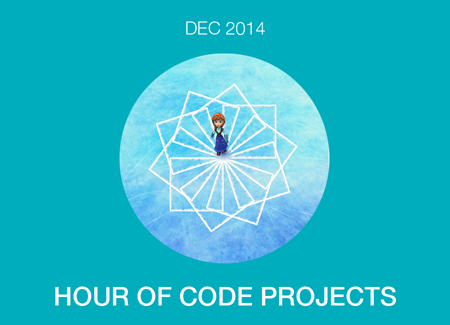
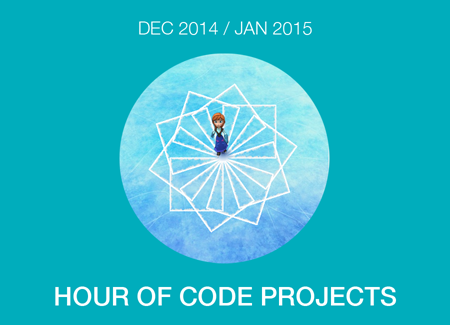
Add January project (pen drawing + custom blocks)
Add January project (pen drawing + custom blocks)

Changed region(s): [[0.3111, 0.0615, 0.6844, 0.1231]]

diff --git a/coderdojo-indigo/presentations/prj_draw_code_blocks/index.html b/coderdojo-indigo/presentations/prj_draw_code_blocks/index.html
@@ -1,0 +1,216 @@
+<!DOCTYPE html>
+<!--[if lt IE 7]> <html class="no-js ie6" lang="en"> <![endif]-->
+<!--[if IE 7]>    <html class="no-js ie7" lang="en"> <![endif]-->
+<!--[if IE 8]>    <html class="no-js ie8" lang="en"> <![endif]-->
+<!--[if gt IE 8]><!-->  <html class="no-js" lang="en"> <!--<![endif]-->
+<head>
+  <meta charset="utf-8">
+  <meta http-equiv="X-UA-Compatible" content="IE=edge,chrome=1">
+
+  <title>CoderDojo Indigo - Pen Drawing and Code Block Functions</title>
+
+  <meta name="description" content="A jQuery library for modern HTML presentations">
+  <meta name="author" content="Caleb Troughton">
+  <meta name="viewport" content="width=1024, user-scalable=no">
+
+  <!-- Core and extension CSS files -->
+  <link rel="stylesheet" media="screen" href="../core/deck.core.css">
+  <link rel="stylesheet" media="screen" href="../extensions/goto/deck.goto.css">
+  <link rel="stylesheet" media="screen" href="../extensions/menu/deck.menu.css">
+  <link rel="stylesheet" media="screen" href="../extensions/navigation/deck.navigation.css">
+  <link rel="stylesheet" media="screen" href="../extensions/status/deck.status.css">
+  <link rel="stylesheet" media="screen" href="../extensions/scale/deck.scale.css">
+
+  <!-- Style theme. More available in /themes/style/ or create your own. -->
+  <link rel="stylesheet" media="screen" href="../themes/style/swiss.css">
+
+  <!-- Transition theme. More available in /themes/transition/ or create your own. -->
+  <link rel="stylesheet" media="screen" href="../themes/transition/horizontal-slide.css">
+
+  <!-- Basic black and white print styles -->
+  <link rel="stylesheet" media="print" href="../core/print.css">
+
+  <script src="../modernizr.custom.js"></script>
+</head>
+
+<body>
+  <div class="deck-container">
+
+    <!-- Begin slides -->
+
+    <section class="slide" id="how-to-overview">
+      <h2>Pen Drawing + Custom Code Block Functions</h2>
+      <ol>
+        <li>
+          <p>Use Pen functions to draw square and circle shapes</p>
+        </li>
+        <li>
+          <p>Create re-usable code "functions" by using custom Code Blocks</p>
+        </li>
+        <li>
+          <p>Use the custom Code Blocks to make patterns and illustrations</p>
+        </li>
+      </ol>
+    </section>
+
+    <section class="slide" id="scratch-signin">
+      <h2>Sign in at Scratch</h2>
+      <p>Go To: <strong><a href="http://scratch.mit.edu/" target="_blank">http://scratch.mit.edu/</a></strong></p>
+      <img src="../overview/images/scratch_signin.jpg" alt="scratch-signin">
+    </section>
+
+    <section class="slide" id="coder-dojo-indigo">
+      <h2>Create new Project</h2>
+      <p>From the Scratch menu, click "Create" to start <strong>a new project</strong></p>
+      <img src="images/01_create_project.png" alt="CoderDojo Indigo">
+    </section>
+
+    <section class="slide" id="see-inside">
+      <h2>Create a Dot costume on the default Sprite</h2>
+      <p>Click new costume paint icon and draw a dot. Delete the 2 cat costumes. (Note: you can hide the dot for drawing, but we'll leave it on to view drawings in progress and start points.)</p>
+      <img src="images/02_dot_sprite.png" alt="see-inside">
+    </section>
+
+    <section class="slide" id="remix">
+      <h2>Draw a Square</h2>
+      <p>Pen functions: "clear" erases all lines, "pen down" to draw, "pen up" to not draw. Draw a square: repeat 4 times -> draw line with distance and direction.</p>
+      <img src="images/03_draw_square.png" alt="remix">
+    </section>
+
+    <section class="slide" id="rename">
+      <h2>Specify Pen color at any time</h2>
+      <p>Add random Pen color for fun and so we can see multiple squares.</p>
+      <img src="images/04_draw_square_color.png" alt="rename">
+    </section>
+
+
+    <section class="slide" id="music-loop">
+      <h2>Multiple Squares by duplicating code</h2>
+      <p>Draw 2 squares by duplicating the code and providing a new start position; Notice the connnecting line.</p>
+      <img src="images/05_two_squares.png" alt="music-loop">
+    </section>
+
+    <section class="slide" id="santa-move">
+      <h2>Pen up block in action</h2>
+      <p>By adding a "pen up" block before the second square is drawn, there won't be a connecting line.</p>
+      <img src="images/06_two_squares_penup.png" alt="santa-move">
+    </section>
+
+    <section class="slide" id="background-scroll0">
+      <h2>Using a nested repeat loop</h2>
+      <p>A more effecient way, of course, is a nested repeat Loop....</p>
+      <img src="images/07_two_squares_nested_loop.png" alt="background-scroll0">
+    </section>
+
+    <section class="slide" id="background-scroll1">
+      <h2>Introducing custom Code Blocks</h2>
+      <p>An even better way is to create custom function Code Blocks - Click on "More Blocks" and select "Make a Block" to create one.</p>
+       <img src="images/08_code_blocks.png" alt="background-scroll1">
+     </section>
+
+     <section class="slide" id="background-scroll2">
+      <h2>Create Square code block</h2>
+      <p>Name your custom Code Block "Create Square" and add a "number input" variable called "size".</p>
+       <img src="images/09_create_square_code_block.png" alt="background-scroll2">
+     </section>        
+
+     <section class="slide" id="house-move">
+      <h2>Define our "Create Square" code</h2>
+      <p>Our "Create Square" custom code block is ready for scripts.</p>
+      <img src="images/10_create_square_code_block.png" alt="house-move">
+    </section>
+
+    <section class="slide" id="house-delay">
+      <h2>Move your scripts to draw a square</h2>
+      <p>Move the chain of scripts to make a square under the custom "Create Square" code block.</p>
+      <img src="images/11_define_create_square_code_block.png" alt="house-delay">
+    </section>
+
+    <section class="slide" id="house-speed">
+      <h2>"Create Square" ready for use</h2>
+      <p>Notice the new "Create Square" script block; you can now use it in your main scripts.  This is much more efficient and keeps your common functions tidy.</p>
+      <img src="images/12_use_create_square_code_block.png" alt="house-speed">
+    </section>
+
+    <section class="slide" id="snowman-move">
+      <h2>Create a Pattern</h2>
+      <p>Tweak our "Create Square" custom block and make a pattern in main script chain. (Why is "point in direction" block moved out of the function?)</p>
+      <img src="images/13_create_pattern.png" alt="snowman-move">
+    </section>
+
+    <section class="slide" id="present-setup">
+      <h2>Add some randomness</h2>
+      <p>Play with the number variables and add random numbers to create unique patterns...</p>
+      <img src="images/14_experiment_with_number_variables.png" alt="present-setup">
+    </section>
+
+    <section class="slide" id="present-drop">
+      <h2>Define a "Create Circle" code block</h2>
+      <p>To create a circle, we need to use math including the infamous "Pi"!</p>
+      <img src="images/15_create_circle_block.png" alt="present-drop">
+    </section>
+
+    <section class="slide" id="present-score">
+      <h2>Combine your custom drawing blocks!</h2>
+      <p>Combine Shapes of various sizes / orientations to make advanced patterns...  Try to create your own patterns! (Notice the "pen size" blocks used here).</p>
+      <img src="images/16_advanced_patterns.png" alt="present-score">
+    </section>
+
+    <section class="slide" id="challenges">
+      <h2>Congratulations!</h2>
+      <p>You've used the drawing Pen and learned about custom Code Blocks! Now, here are a few <strong>Challenges</strong>:</p>
+      <ol>
+        <li>
+          <p>Experiment and create your own patterns or random designs using these code blocks.</p>
+        </li>
+        <li>
+          <p>Remix other drawing projects on Scratch (example: spirograph).  Use the Pen tool to create different shapes and illustrations.</p>
+        </li>
+        <li>
+          <p>Apply re-usable custom Code Block techniques in your other projects.</p>
+        </li>
+      </ol>
+      <p>If you got stuck anywhere, see the completed project with comments here: <a href="http://scratch.mit.edu/projects/42599958/" target="_blank">http://scratch.mit.edu/projects/42599958/</a>!</p>
+    </section>
+
+    <!-- deck.navigation snippet -->
+    <div aria-role="navigation">
+      <a href="#" class="deck-prev-link" title="Previous">&#8592;</a>
+      <a href="#" class="deck-next-link" title="Next">&#8594;</a>
+    </div>
+
+    <!-- deck.status snippet -->
+    <p class="deck-status" aria-role="status">
+      <span class="deck-status-current"></span>
+      /
+      <span class="deck-status-total"></span>
+    </p>
+
+    <!-- deck.goto snippet -->
+    <form action="." method="get" class="goto-form">
+      <label for="goto-slide">Go to slide:</label>
+      <input type="text" name="slidenum" id="goto-slide" list="goto-datalist">
+      <datalist id="goto-datalist"></datalist>
+      <input type="submit" value="Go">
+    </form>
+  </div>
+
+  <script src="../jquery.min.js"></script>
+
+  <!-- Deck Core and extensions -->
+  <script src="../core/deck.core.js"></script>
+  <script src="../extensions/menu/deck.menu.js"></script>
+  <script src="../extensions/goto/deck.goto.js"></script>
+  <script src="../extensions/status/deck.status.js"></script>
+  <script src="../extensions/navigation/deck.navigation.js"></script>
+  <script src="../extensions/scale/deck.scale.js"></script>
+
+  <!-- Initialize the deck -->
+  <script>
+    $(function() {
+      $.deck('.slide');
+    });
+  </script>
+
+</body>
+</html>

diff --git a/coderdojo-indigo/index.html b/coderdojo-indigo/index.html
@@ -145,13 +145,13 @@
                 </a>
             </div>
             <div class="col-sm-4 portfolio-item">
-                <a href="#" class="portfolio-link" data-toggle="modal">
+                <a href="presentations/prj_draw_code_blocks/index.html" target="_blank" class="portfolio-link" data-toggle="modal">
                     <div class="caption">
                         <div class="caption-content">
                             <i class="fa fa-search-plus fa-3x"></i>
                         </div>
                     </div>
-                    <img src="img/portfolio/jan.png" class="img-responsive" alt="jan">
+                    <img src="img/portfolio/pendrawing.png" class="img-responsive" alt="jan">
                 </a>
             </div>
             <div class="col-sm-4 portfolio-item">
@@ -179,7 +179,7 @@
         </div>
         <div class="row">
             <div class="col-lg-4 col-md-12">
-                <p>CoderDojo Indigo is an introductory level coding experience for 4th-8th graders at <a href="http://indigoprogram.org/" target="_blank">Indigo School</a> held monthly during the 2014/2015 school year starting in October.</p>
+                <p>CoderDojo Indigo is an introductory level coding experience for 4th-8th graders at <a href="http://indigoprogram.org/" target="_blank">Indigo Program</a> held monthly during the 2014/2015 school year starting in October.</p>
             </div>
             <div class="col-lg-4 col-md-12">
                 <p>This collaborative and volunteer-led computer club follows the <a href="http://coderdojo.com/" target="_blank">CoderDojo</a> philosophy.  We are using <a href="http://scratch.mit.edu/" target="_blank">Scratch</a>, an MIT developed online visual programming environment, to empower students to quickly experiment and create interactive projects - animations, games, music and art.</p>
@@ -253,7 +253,7 @@
                         <div class="well"><p>Please note the requirements before signing up for a session.</p></div>
                         <ul>
                             <li>Sign up for a free account at the Scratch website (<a href="http://scratch.mit.edu/" target="_blank">http://scratch.mit.edu/</a>) and bring your login!</li>
-                            <li>Since we are sponsored by Indigo School, session sign-ups will be through school process.</li>
+                            <li>Since we are sponsored by the Indigo Program, session sign-ups will be through school process.</li>
                             <li>Students must bring a fully-charged WiFi-capable laptop.</li>
                             <li>Students can bring water, but should be fed before-hand.</li>
                             <li>Students must be accompanied by an adult during full session<br />(<i>No siblings, please</i>).</li>
